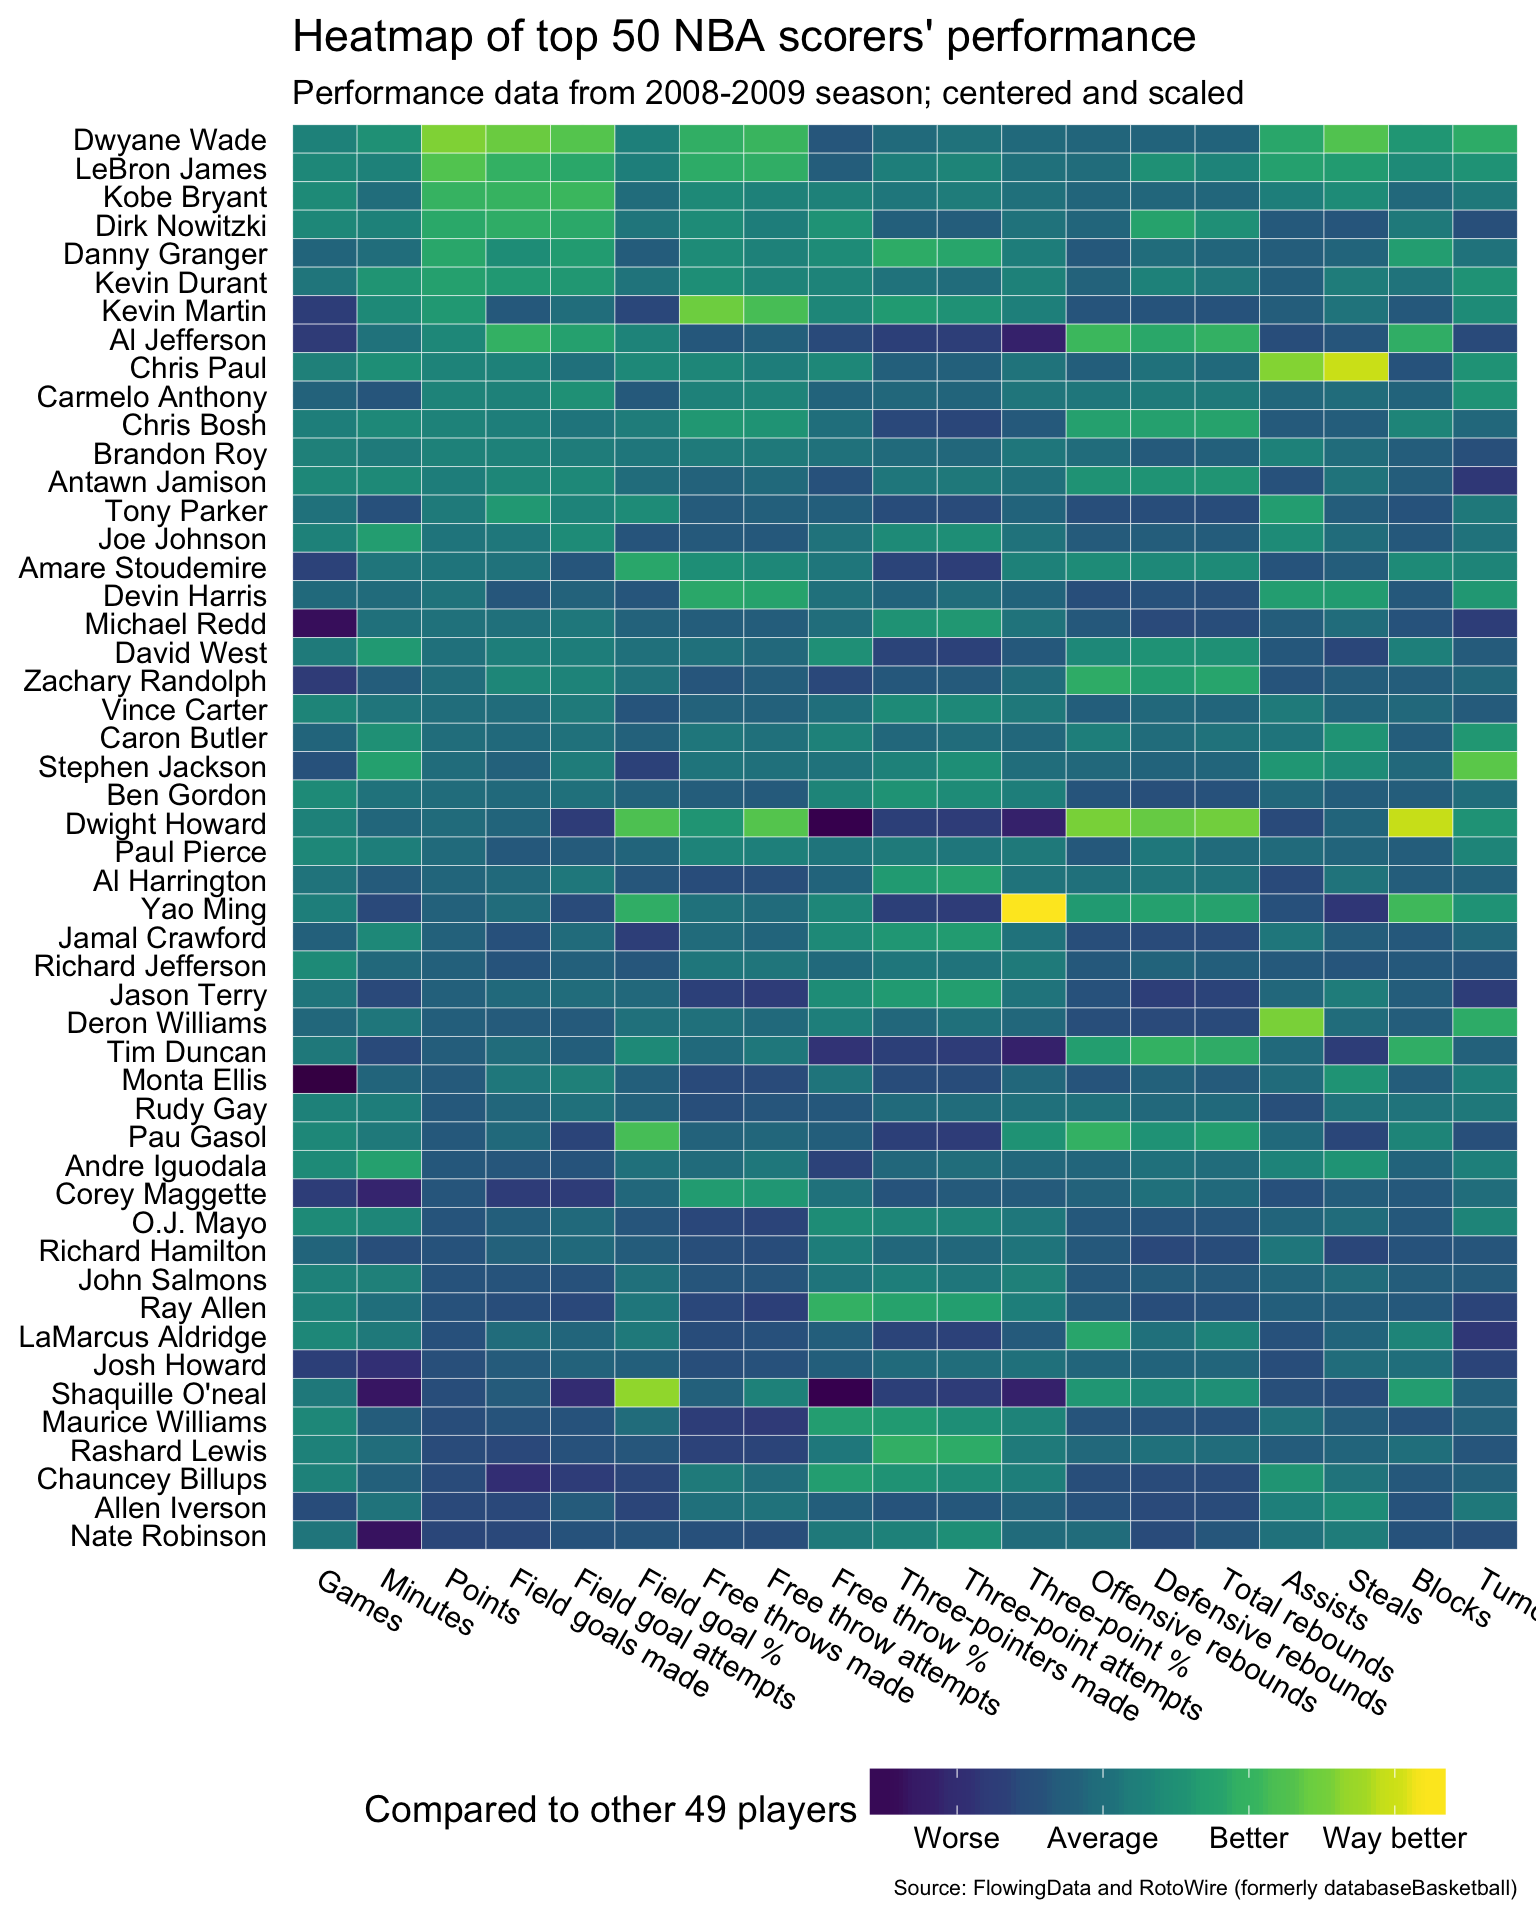
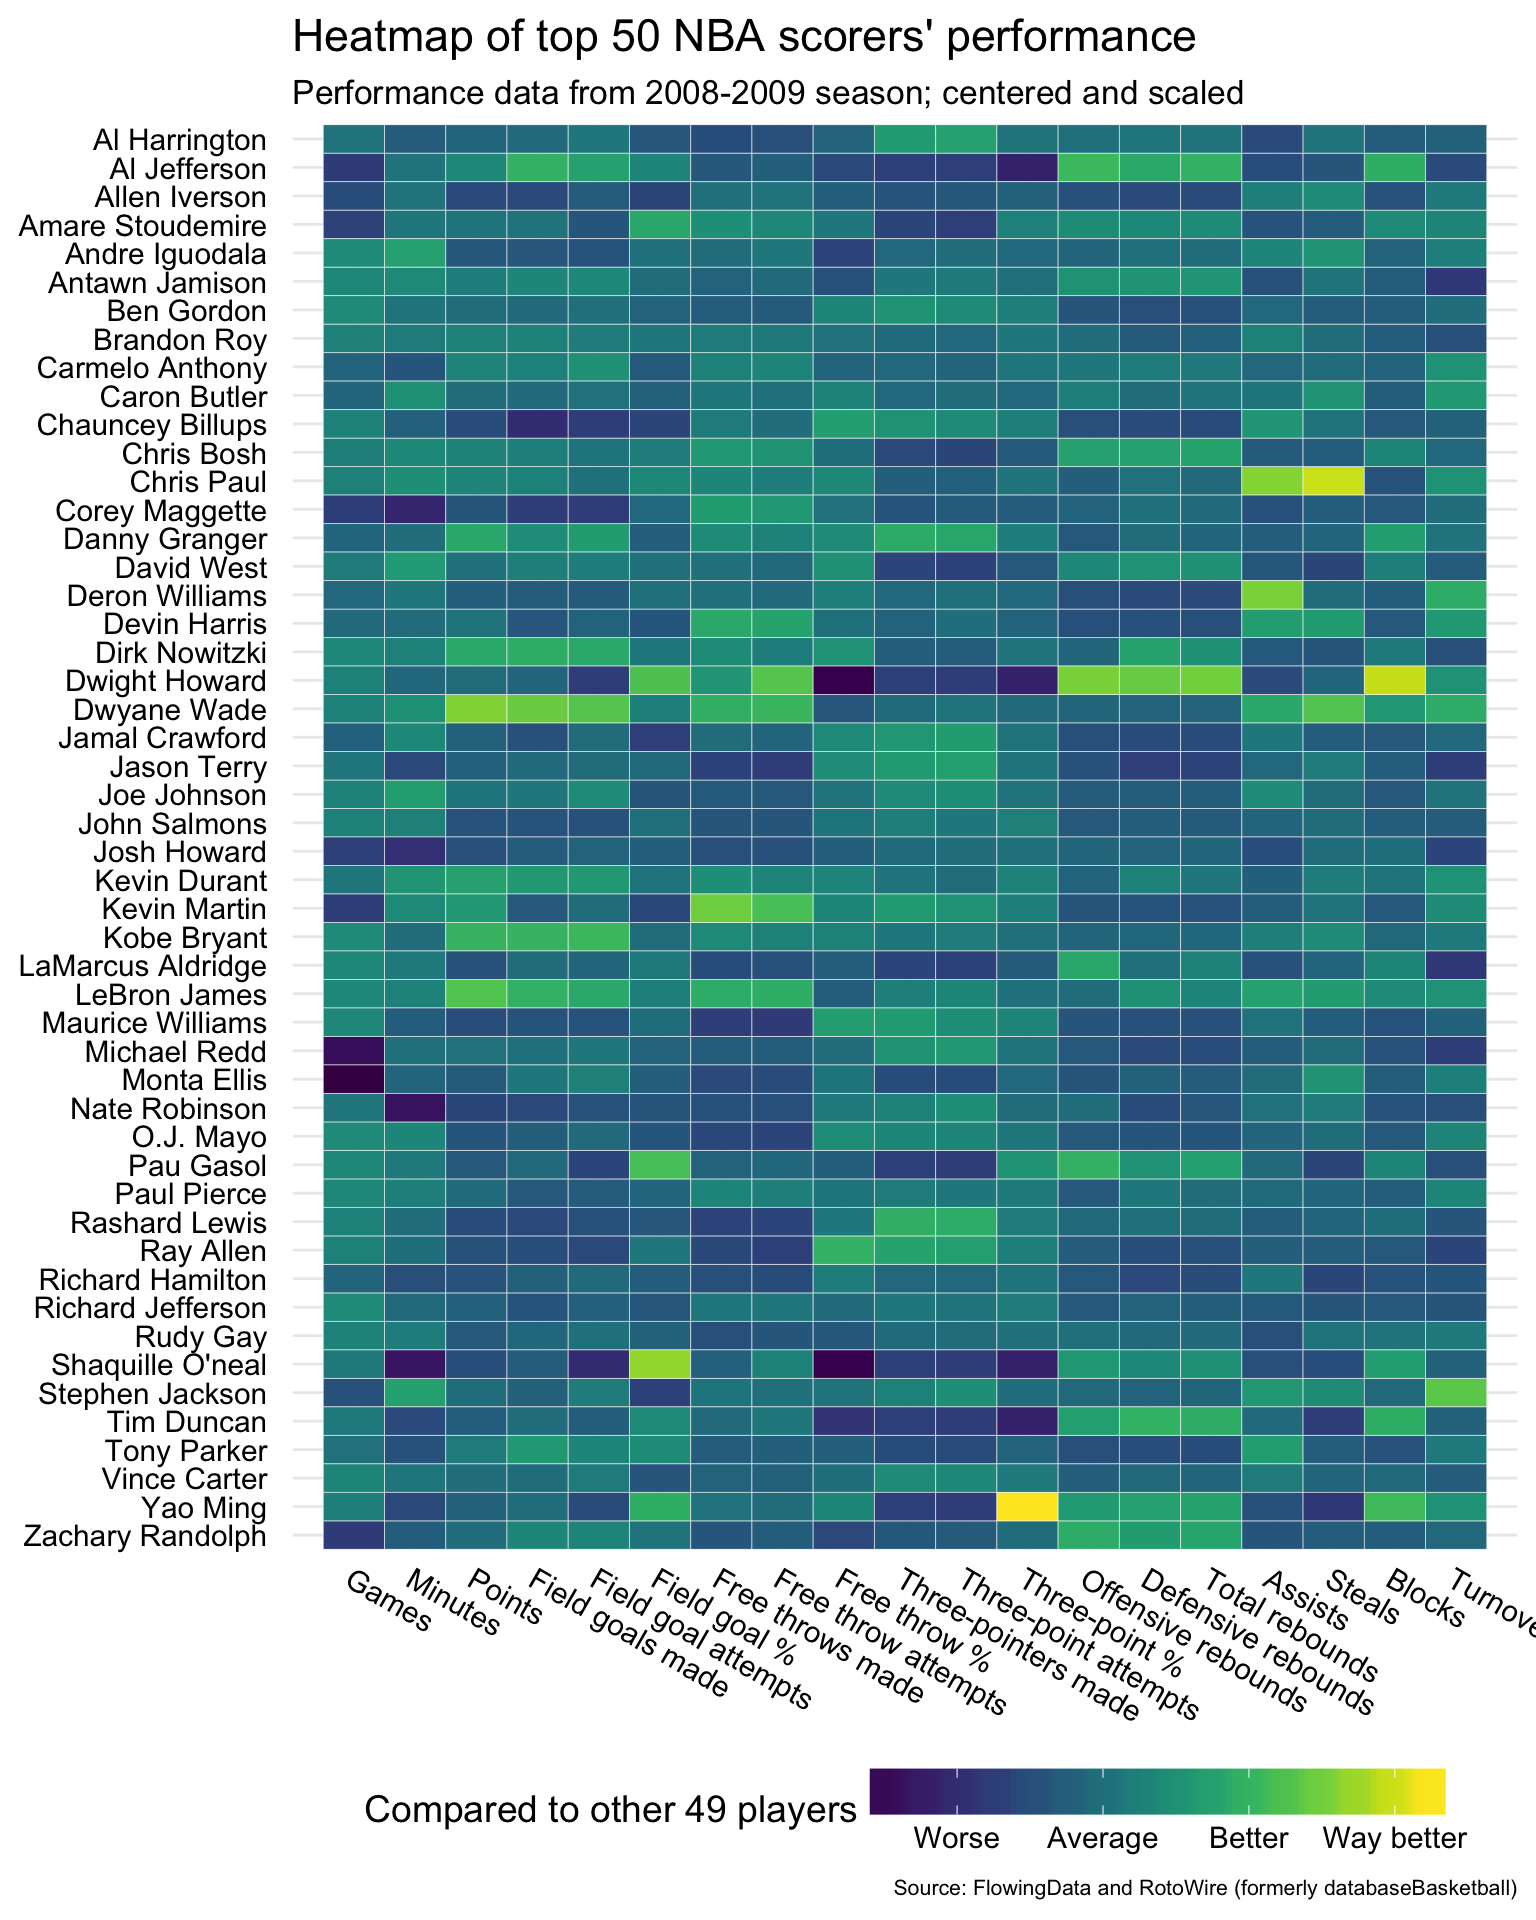
v0.9.4: rewording, ridgeline plot, and heatmap fixes
Big thanks to my colleague Trey Jones for numerous editorial suggestions!

diff --git a/index.html b/index.html
@@ -46,7 +46,7 @@ if (window.hljs && document.readyState && document.readyState === "complete") {
 
 <div id="section-introduction" class="section level2">
 <h2>Introduction</h2>
-<p>Heat maps, stacked area plots, mosaic plots, choropleths – oh my! There are so many different ways to visually convey relationships and patterns in data! In this workshop on data visualization literacy, you’ll learn to recognize many popular types of charts and how to glean insights from them.</p>
+<p>Heat maps, stacked area plots, mosaic plots, choropleths – oh my! There are so many different ways to visually convey relationships and patterns in data! In this workshop on data visualization literacy, you’ll learn to recognize many popular types of charts and how to glean insights from them. The <strong>Appendix</strong> contains some examples of data visualization as visual essays and it also includes links to resources for learning how to create your own.</p>
 <p>This workshop is <a href="https://github.com/bearloga/wmf-allhands18">available as open source</a>. There is an <a href="http://dataviz-literacy.wmflabs.org/">interactive version</a> (which should automatically send you to either <a href="http://dataviz-lit-01.wmflabs.org/">mirror 1</a>, <a href="http://dataviz-lit-02.wmflabs.org/">mirror 2</a>, or <a href="http://dataviz-lit-03.wmflabs.org/">mirror 3</a>) and a <a href="https://bearloga.github.io/wmf-allhands18/">static version</a>.</p>
 <table>
 <thead>
@@ -196,12 +196,13 @@ Notice how the use of color allows us to compare survivorship within classes.
 The three little histo-bears.
 </p>
 </div>
+<p>For a deeper look at histograms, I encourage you to check out <a href="https://tinlizzie.org/histograms/">Exploring Histograms</a> by Aran Lunzer and Amelia McNamara.</p>
 </div>
 <div id="section-comparing-distributions" class="section level3">
 <h3>Comparing Distributions</h3>
 <p>When you see one of these, they are used for comparing distributions of a continuous variable (such as sepal length of Iris flowers) between different groups (such as different species):</p>
 <p><img src="index_files/figure-html4/comparing_distributions-1.png" width="624" /></p>
-<p>The <a href="https://en.wikipedia.org/wiki/Kernel_density_estimation">density plot</a> on the left is like a smooth histogram that doesn’t discretize the variable into bins. The <a href="https://en.wikipedia.org/wiki/Violin_plot">violin plot</a> on the right is a rotated version that makes it easier to perform the comparison because the densities (distributions) are not overlapping.</p>
+<p>The <a href="https://en.wikipedia.org/wiki/Kernel_density_estimation">density plot</a> on the left is like a smooth histogram that doesn’t discretize the variable into bins. The <a href="https://en.wikipedia.org/wiki/Violin_plot">violin plot</a> in the middle is a rotated version that makes it easier to perform the comparison because the densities (distributions) are not overlapping. Recently, an alternative called <em>ridgeline plot</em> – on the right – gained a lot of popularity for comparing distributions across groups. (They were originally called <em>joyplots</em> but that name <a href="http://serialmentor.com/blog/2017/9/15/goodbye-joyplots">was deprecated</a>.)</p>
 <p>A <a href="https://en.wikipedia.org/wiki/Box_plot">box-and-whiskers chart</a> (also known as a <em>box plot</em>) allows you to visually compare the distributions by way of a <a href="https://en.wikipedia.org/wiki/Five-number_summary">five number summary</a> which includes:</p>
 <ul>
 <li>Sample minimum (the smallest value)</li>
@@ -237,9 +238,9 @@ These are usually not present in final drafts of reports and are instead used as
 </div>
 <p>At first glance there is <strong>a lot</strong> going on in that particular matrix, but really there are three main components that we can focus on just one at a time:</p>
 <ol style="list-style-type: decimal">
-<li>the upper triangle panels have basic scatter plots with points colored according to species for each pair of variables,</li>
-<li>the diagonal panels have histograms of the individual variables, and</li>
-<li>the lower triangle panels are also scatterplots, but with ellipses tracing the two-dimensional densities (assuming <a href="https://en.wikipedia.org/wiki/Multivariate_normal_distribution">Normality</a>).</li>
+<li>the four panels along the <em>diagonal</em> have histograms of the individual variables,</li>
+<li>the six panels in the <em>upper triangle</em> above the diagonal have basic scatter plots with points colored according to species for each pair of variables, and</li>
+<li>the six panels in the <em>lower triangle</em> below the diagonal are also scatterplots, but with ellipses tracing the two-dimensional densities (assuming <a href="https://en.wikipedia.org/wiki/Multivariate_normal_distribution">Normality</a>).</li>
 </ol>
 <p><a href="https://en.wikipedia.org/wiki/Line_chart">Line charts</a> are the most common way to visualize <a href="https://en.wikipedia.org/wiki/Time_series">time series</a> data, with time <strong>usually</strong> as the horizontal X axis and range of a quantitative variable as the vertical Y axis:</p>
 <div class="figure">
@@ -257,7 +258,7 @@ You may notice that the linear scale and the difference in magnitude makes it di
 <p><a href="https://en.wikipedia.org/wiki/Mosaic_plot">Mosaic plots</a> are used to visualize the relationships between two or more qualitative variables, and they are incredibly rare. While they are very useful once you learn how to read them, that step can be very difficult and so it is unsurprising that they don’t show up more. They’re often used by statisticians during exploratory data analysis to perform a visual check before performing a statistical test of independence.</p>
 <p>We will use these to examine distribution of hair and eye colors in ~600 statistics students at University of Delaware reported by Snee, R. D. in <em>The American Statistician</em> journal in 1974:</p>
 <p><img src="index_files/figure-html4/mosaic1-1.png" width="624" /></p>
-<p>We can extend a mosaic plot to include <em>standardized residuals</em> (also called <a href="https://en.wikipedia.org/wiki/Studentized_residual"><em>studendized residuals</em></a>) from a <a href="https://en.wikipedia.org/wiki/Log-linear_model">log-linear model</a>. Cells representing <span style="color:red;font-weight:bold;">negative residuals</span> – meaning there are <span style="color:red;font-weight:bold;">fewer observations than would have been expected under independence</span> – are drawn as <span style="color:red;font-weight:bold;">red</span> with broken borders; <span style="color:blue;font-weight:bold;">positive residuals</span> – meaning <span style="color:blue;font-weight:bold;">more observations than would be expected</span> – are drawn in <span style="color:blue;font-weight:bold;">blue</span> with solid borders.</p>
+<p>We can extend a mosaic plot to include <em>standardized residuals</em> (also called <a href="https://en.wikipedia.org/wiki/Studentized_residual"><em>studentized residuals</em></a>) from a <a href="https://en.wikipedia.org/wiki/Log-linear_model">log-linear model</a>. Cells representing <span style="color:red;font-weight:bold;">negative residuals</span> – meaning there are <span style="color:red;font-weight:bold;">fewer observations than would have been expected under independence</span> – are drawn as <span style="color:red;font-weight:bold;">red</span> with broken borders; <span style="color:blue;font-weight:bold;">positive residuals</span> – meaning <span style="color:blue;font-weight:bold;">more observations than would be expected</span> – are drawn in <span style="color:blue;font-weight:bold;">blue</span> with solid borders.</p>
 <p><img src="index_files/figure-html4/mosaic2-1.png" width="624" /></p>
 <p>We can also look at the proportions across all three variables:</p>
 <p><img src="index_files/figure-html4/mosaic3-1.png" width="624" /></p>
@@ -270,7 +271,7 @@ You may notice that the linear scale and the difference in magnitude makes it di
 </div>
 <div id="section-stacked-area-plots" class="section level3">
 <h3>Stacked area plots</h3>
-<p>A <em>stacked area plot</em> is a way to visualize multiple amounts/proportions changes over time.</p>
+<p>A <em>stacked area plot</em> is a way to visualize changes in amounts (or proportions) over time.</p>
 <div class="figure">
 <img src="index_files/figure-html4/stacked_area-1.png" alt="Beginning with 1925, the number of people over the age of 64 has increased dramatically, especially after 1975." width="624" />
 <p class="caption">
@@ -280,7 +281,7 @@ Beginning with 1925, the number of people over the age of 64 has increased drama
 </div>
 <div id="section-heat-maps" class="section level3">
 <h3>Heat maps</h3>
-<p><a href="https://en.wikipedia.org/wiki/Heat_map">Heatmaps</a> are a graphical representation of matrices. For example, we can visualize the following dataset of top 50 NBA players’ performance statistics from <a href="(https://en.wikipedia.org/wiki/2008%E2%80%9309_NBA_season)">the 2008-09 season</a> (obtained from <a href="https://www.rotowire.com/">RotoWire</a>, formerly databaseBasketball):</p>
+<p><a href="https://en.wikipedia.org/wiki/Heat_map">Heatmaps</a> are a graphical representation of matrices. For example, we can visualize a dataset of top 50 NBA players’ performance statistics from <a href="(https://en.wikipedia.org/wiki/2008%E2%80%9309_NBA_season)">the 2008-09 season</a> (obtained from <a href="https://www.rotowire.com/">RotoWire</a>, formerly databaseBasketball):</p>
 <p><img src="index_files/figure-html4/heatmap-1.png" width="624" /></p>
 <p>Some observations:</p>
 <ul>
@@ -327,7 +328,7 @@ Almost all of the crew was male and almost 80% of them died. Most of the 3rd cla
 <h2>Scales and transformed data</h2>
 <p>Sometimes the author of the visualization has chosen to apply a <a href="https://en.wikipedia.org/wiki/Data_transformation_(statistics)">transformation to the data</a> because the data is <a href="https://en.wikipedia.org/wiki/Skewness">skewed</a>. It is important to watch out for these, especially <a href="https://en.wikipedia.org/wiki/Logarithmic_scale">logarithmic scales</a>.</p>
 <p><img src="index_files/figure-html4/transformed_scatterplot-1.png" width="624" height="624" /></p>
-<p>Let us revisit the pageviews data from earlier by utilizing the logarithmic axis:</p>
+<p>Let us revisit the pageviews data from earlier by utilizing a logarithmic axis:</p>
 <div class="figure">
 <img src="index_files/figure-html4/tsplot_log10-1.png" alt="Notice how the French Wikipedia pageviews are no longer dampened by English Wikipedia pageviews' magnitude." width="624" />
 <p class="caption">
@@ -475,7 +476,7 @@ Notice how the French Wikipedia pageviews are no longer dampened by English Wiki
 <h3>Further reading</h3>
 <ul>
 <li><a href="https://www.edwardtufte.com/tufte/books_vdqi">The Visual Display of Quantitative Information</a> by Edward Tufte</li>
-<li><a href="http://www.springer.com/us/book/9783540330363">Handbook of Data Visualization</a></li>
+<li><a href="http://www.springer.com/us/book/9783540330363">Handbook of Data Visualization</a> (Editors: Chun-houh Chen, Wolfgang Karl Härdle, Antony Unwin)</li>
 </ul>
 </div>
 <div id="section-making-your-own" class="section level3">
@@ -493,7 +494,7 @@ knitr::opts_chunk$set(echo = FALSE, warning = FALSE, message = FALSE)
 </script>
  
 <script type="application/shiny-prerendered" data-context="server">
-learnr:::register_http_handlers(session, metadata = list(id = "org.wikimedia.mikhail.dataviz-literacy", version = "0.9.2"))
+learnr:::register_http_handlers(session, metadata = list(id = "org.wikimedia.mikhail.dataviz-literacy", version = "0.9.4"))
 </script>
  
 <script type="application/shiny-prerendered" data-context="data">

diff --git a/README.md b/README.md
@@ -12,7 +12,7 @@ This workshop uses the [learnr](https://rstudio.github.io/learnr/) and [rmarkdow
 install.packages(c("tidyverse", "devtools", "learnr"))
 # Visualizations
 devtools::install_github("tidyverse/ggplot2")
-install.packages(c("cowplot", "waffle", "RColorBrewer", "DT", "mixtools"))
+install.packages(c("cowplot", "waffle", "RColorBrewer", "DT", "mixtools", "ggridges"))
 # Data
 install.packages("pageviews")
 ```
